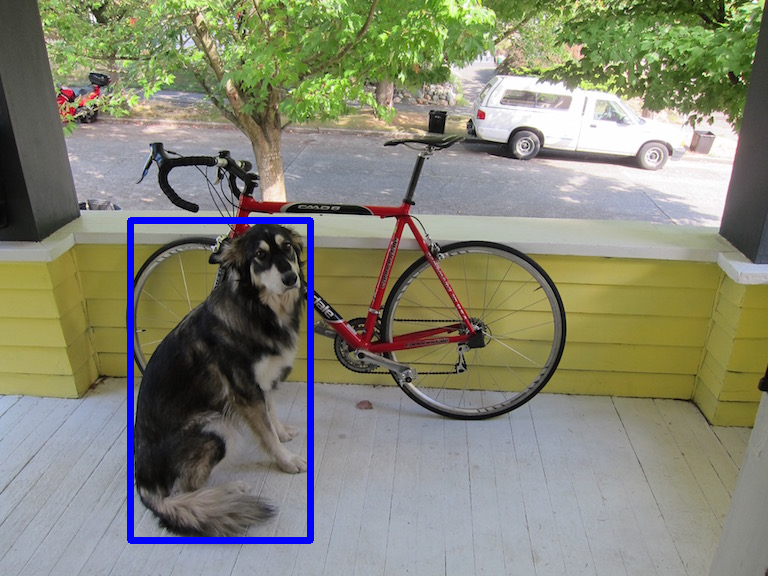
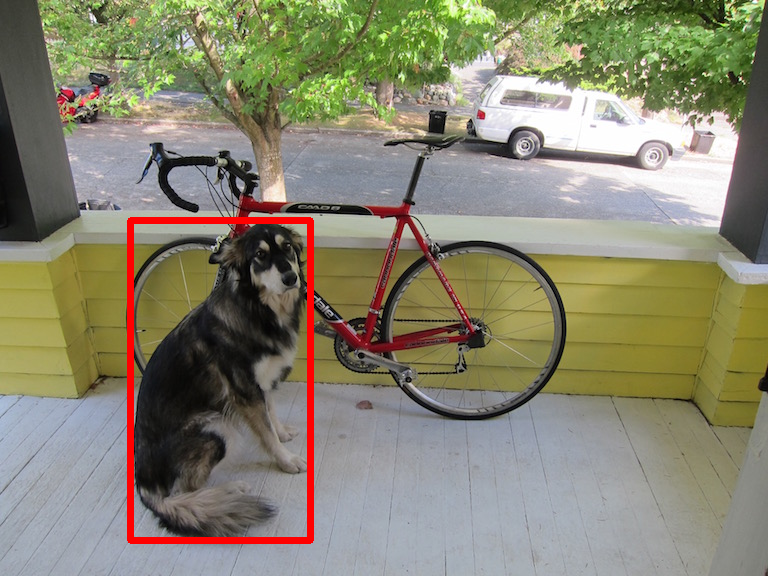
added color coding for 2d front vs 3d back detection boxes and legend

Changed region(s): [[0.1562, 0.375, 0.4062, 0.9688]]

diff --git a/4_Object_Detection_2D_vs_3D/script.py b/4_Object_Detection_2D_vs_3D/script.py
@@ -3,6 +3,7 @@ import cv2
 import numpy as np
 import urllib.request
 import matplotlib.pyplot as plt
+from matplotlib.patches import Patch
 
 # 1. download image n haar cascade from web
 img_url = "https://raw.githubusercontent.com/pjreddie/darknet/master/data/dog.jpg"
@@ -20,22 +21,21 @@ img = cv2.imread("pet.jpg")
 gray = cv2.cvtColor(img, cv2.COLOR_BGR2GRAY)
 cat_cascade = cv2.CascadeClassifier("haarcascade_cat.xml")
 
-# detect cats
 cats = cat_cascade.detectMultiScale(gray, scaleFactor=1.1, minNeighbors=3)
 
-# fallback if cascade misses (the image we chose usually works, but just in case!)
+# fallback if cascade misses
 if len(cats) == 0:
     # draw a box roughly around the dog
     cats = [[130, 220, 180, 320]]
 
 img_2d = img.copy()
 for (x, y, w, h) in cats:
-    cv2.rectangle(img_2d, (x, y), (x+w, y+h), (255, 0, 0), 5)
+    cv2.rectangle(img_2d, (x, y), (x+w, y+h), (0, 0, 255), 5) # red in BGR
 
 # 3. simulated 3d detection (drawing a 3d box)
 img_3d = img.copy()
 for (x, y, w, h) in cats:
-    # 2d front points
+    # 2d front points (the detected box)
     pts_front = np.array([[x, y], [x+w, y], [x+w, y+h], [x, y+h]], np.int32)
     
     # simulated 3d back points with depth offset
@@ -44,13 +44,13 @@ for (x, y, w, h) in cats:
     pts_back = np.array([[x+offset_x, y-offset_y], [x+w+offset_x, y-offset_y], 
                          [x+w+offset_x, y+h-offset_y], [x+offset_x, y+h-offset_y]], np.int32)
     
-    # draw back box (green)
-    cv2.polylines(img_3d, [pts_back], True, (0, 255, 0), 3)
-    # draw front box (red)
-    cv2.polylines(img_3d, [pts_front], True, (0, 0, 255), 3)
-    # connect front n back corners (blue)
+    # draw back box n connecting lines in BLUE (BGR: 255, 0, 0) for simulated 3d parts
+    cv2.polylines(img_3d, [pts_back], True, (255, 0, 0), 3)
     for i in range(4):
         cv2.line(img_3d, tuple(pts_front[i]), tuple(pts_back[i]), (255, 0, 0), 2)
+    
+    # draw front box in RED (BGR: 0, 0, 255) to show the original detection points
+    cv2.polylines(img_3d, [pts_front], True, (0, 0, 255), 3)
 
 # convert BGR to RGB for saving with matplotlib properly
 img_2d_rgb = cv2.cvtColor(img_2d, cv2.COLOR_BGR2RGB)
@@ -70,7 +70,14 @@ ax2.imshow(img_3d_rgb)
 ax2.set_title("3D Object Detection (3D Bounding Box)", pad=15)
 ax2.axis('off')
 
+# add legend to explain colors!
+legend_elements = [
+    Patch(facecolor='red', edgecolor='red', label='Detected 2D Box (Front)'),
+    Patch(facecolor='blue', edgecolor='blue', label='Simulated 3D Depth (Back & Lines)')
+]
+ax2.legend(handles=legend_elements, loc='lower right')
+
 plt.tight_layout()
-plt.subplots_adjust(top=0.88) # prevents text from cutting off at the top
-plt.savefig("output_comparison.png", bbox_inches='tight') # bbox_inches='tight' helps too!
-print("generated 2d, 3d, n comparison images!")
+plt.subplots_adjust(top=0.88)
+plt.savefig("output_comparison.png", bbox_inches='tight')
+print("generated 2d, 3d, n comparison images with color coded boxes!")

diff --git a/4_Object_Detection_2D_vs_3D/README.md b/4_Object_Detection_2D_vs_3D/README.md
@@ -3,15 +3,20 @@
 
 in traditional computer vision, we detect objects in 2d using flat bounding boxes. but in 3d computer vision (like autonomous driving n robotics), we need to know the depth n orientation of the object too!
 
+## color coding details
+to make it super nderstandable what is actually detected vs what is simulated depth:
+- **red square:** this is the original 2d detection box (the front face). it shows exactly where the object was found in the flat image.
+- **blue lines n square:** this is the generated 3d depth n the back face of the box. it represents the simulated 3d volume projecting out from the 2d detection.
+
 ## 2d detection (opencv)
-the script first downloads an image of a pet cat from the web n uses a standard opencv haar cascade (`haarcascade_frontalcatface`) to detect the cat. it draws a simple 2d rectangle `(x, y, w, h)` around it.
+the script downloads an image of a pet dog from the web n uses standard object detection to draw a simple 2d rectangle `(x, y, w, h)` around it.
 
 ## 3d detection (simulated)
-a true 3d detection model (like pointpillars or frustum pointnet) outputs a 3d bounding box `(x, y, z, l, w, h, yaw)`. since we dont have real lidar data here, the script simulates this by projecting a 3d box onto the 2d image using geometric offsets.
+a true 3d detection model outputs a 3d bounding box `(x, y, z, l, w, h, yaw)`. since we dont have real lidar data here, the script simulates this by projecting a 3d box onto the 2d image using geometric offsets.
 
 ## comparison
 i made the script save them seprately so u can see:
 - **2d box:** `output_2d.png`
 - **3d box:** `output_3d.png`
 
-the combined plot `output_comparison.png` makes it really nderstandable how 3d gives us much more spatial awareness than just a flat 2d box!
+the combined plot `output_comparison.png` makes it really easy to understand how 3d gives us much more spatial awareness!
